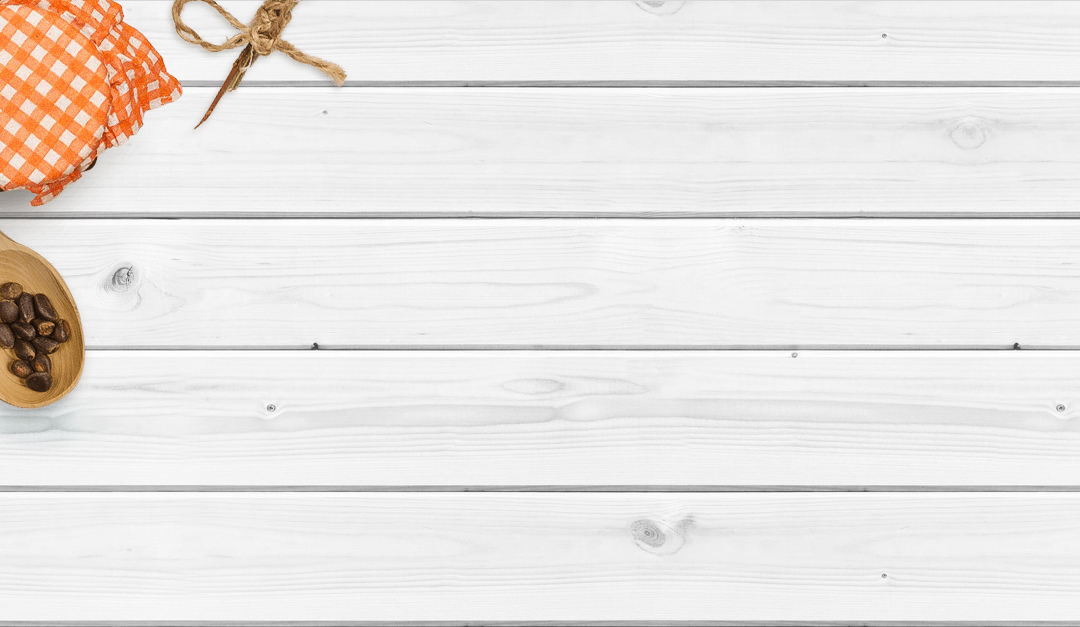
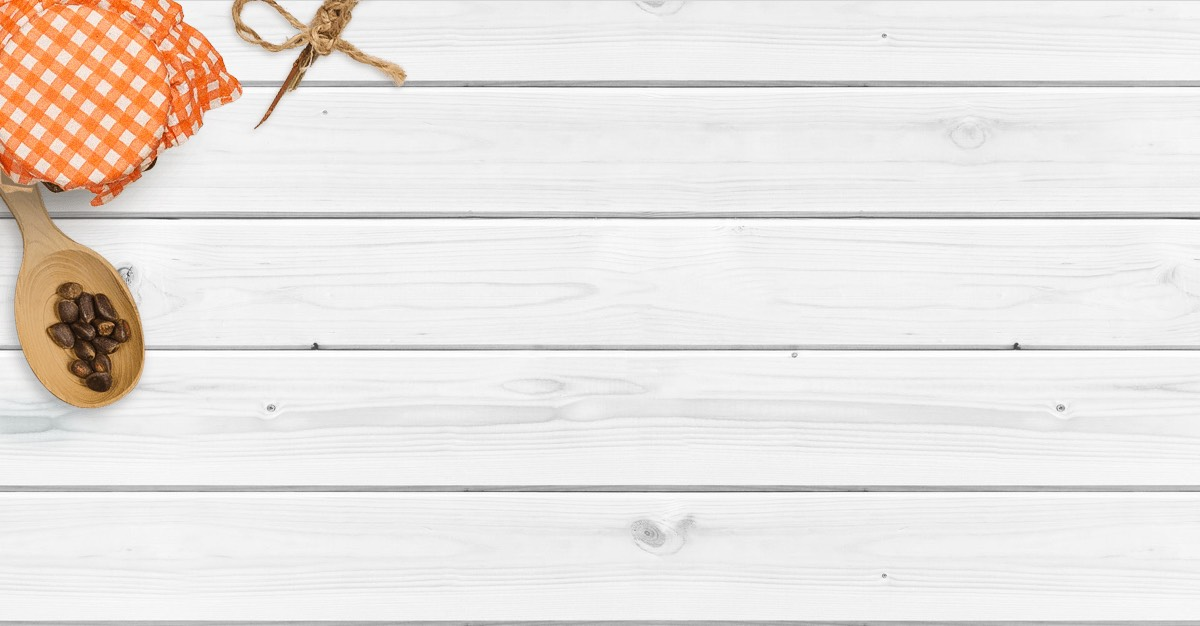
правки, бэк хэдера, контейнер под товары и отступ под ним

diff --git a/index.html b/index.html
@@ -134,70 +134,72 @@
 			<div class="b-block">
 				<div class="b-popular">
 					<h1>Популярное</h1>
-					<div class="b-product-card">
-						<a href="#" class="b-product-url">
-							<div class="b-img" style="background-image: url('./i/card-product-01.jpg')"></div>
-							<h3>Арктавит (напиток чайный из корня лопуха)</h3>
-						</a>
-						<span class="">1 800<span class="icon-rub"></span></span>
-						<a href="#" class="b-btn-green">В корзину</a>
-					</div>
-					<div class="b-product-card">
-						<a href="#" class="b-product-url">
-							<div class="b-img" style="background-image: url('./i/card-product-02.jpg')"></div>
-							<h3>Арктавит (напиток чайный из корня лопуха)</h3>
-						</a>
-						<span class="">1 800<span class="icon-rub"></span></span>
-						<a href="#" class="b-btn-green">В корзину</a>
-					</div>
-					<div class="b-product-card">
-						<a href="#" class="b-product-url">
-							<div class="b-img" style="background-image: url('./i/card-product-03.jpg')"></div>
-							<h3>Арктавит (напиток чайный из корня лопуха)</h3>
-						</a>
-						<span class="">1 800<span class="icon-rub"></span></span>
-						<a href="#" class="b-btn-green">В корзину</a>
-					</div>
-					<div class="b-product-card">
-						<a href="#" class="b-product-url">
-							<div class="b-img" style="background-image: url('./i/card-product-04.jpg')"></div>
-							<h3>Арктавит (напиток чайный из корня лопуха)</h3>
-						</a>
-						<span class="">1 800<span class="icon-rub"></span></span>
-						<a href="#" class="b-btn-green">В корзину</a>
-					</div>
-					<div class="b-product-card">
-						<a href="#" class="b-product-url">
-							<div class="b-img" style="background-image: url('./i/card-product-01.jpg')"></div>
-							<h3>Арктавит (напиток чайный из корня лопуха)</h3>
-						</a>
-						<span class="">1 800<span class="icon-rub"></span></span>
-						<a href="#" class="b-btn-green">В корзину</a>
-					</div>
-					<div class="b-product-card">
-						<a href="#" class="b-product-url">
-							<div class="b-img" style="background-image: url('./i/card-product-02.jpg')"></div>
-							<h3>Арктавит (напиток чайный из корня лопуха)</h3>
-						</a>
-						<span class="">1 800<span class="icon-rub"></span></span>
-						<a href="#" class="b-btn-green">В корзину</a>
-					</div>
-					<div class="b-product-card">
-						<a href="#" class="b-product-url">
-							<div class="b-img" style="background-image: url('./i/card-product-03.jpg')"></div>
-							<h3>Арктавит (напиток чайный из корня лопуха)</h3>
-						</a>
-						<span class="">1 800<span class="icon-rub"></span></span>
-						<a href="#" class="b-btn-green">В корзину</a>
-					</div>
-					<div class="b-product-card">
-						<a href="#" class="b-product-url">
-							<div class="b-img" style="background-image: url('./i/card-product-04.jpg')"></div>
-							<h3>Арктавит (напиток чайный из корня лопуха)</h3>
-						</a>
-						<span class="">1 800<span class="icon-rub"></span></span>
-						<a href="#" class="b-btn-green">В корзину</a>
-					</div>
+					<div class="b-catalog-container">
+						<div class="b-product-card">
+							<a href="#" class="b-product-url">
+								<div class="b-img" style="background-image: url('./i/card-product-01.jpg')"></div>
+								<h3>Арктавит (напиток чайный из корня лопуха)</h3>
+							</a>
+							<span class="">1 800<span class="icon-rub"></span></span>
+							<a href="#" class="b-btn-green">В корзину</a>
+						</div>
+						<div class="b-product-card">
+							<a href="#" class="b-product-url">
+								<div class="b-img" style="background-image: url('./i/card-product-02.jpg')"></div>
+								<h3>Арктавит (напиток чайный из корня лопуха)</h3>
+							</a>
+							<span class="">1 800<span class="icon-rub"></span></span>
+							<a href="#" class="b-btn-green">В корзину</a>
+						</div>
+						<div class="b-product-card">
+							<a href="#" class="b-product-url">
+								<div class="b-img" style="background-image: url('./i/card-product-03.jpg')"></div>
+								<h3>Арктавит (напиток чайный из корня лопуха)</h3>
+							</a>
+							<span class="">1 800<span class="icon-rub"></span></span>
+							<a href="#" class="b-btn-green">В корзину</a>
+						</div>
+						<div class="b-product-card">
+							<a href="#" class="b-product-url">
+								<div class="b-img" style="background-image: url('./i/card-product-04.jpg')"></div>
+								<h3>Арктавит (напиток чайный из корня лопуха)</h3>
+							</a>
+							<span class="">1 800<span class="icon-rub"></span></span>
+							<a href="#" class="b-btn-green">В корзину</a>
+						</div>
+						<div class="b-product-card">
+							<a href="#" class="b-product-url">
+								<div class="b-img" style="background-image: url('./i/card-product-01.jpg')"></div>
+								<h3>Арктавит (напиток чайный из корня лопуха)</h3>
+							</a>
+							<span class="">1 800<span class="icon-rub"></span></span>
+							<a href="#" class="b-btn-green">В корзину</a>
+						</div>
+						<div class="b-product-card">
+							<a href="#" class="b-product-url">
+								<div class="b-img" style="background-image: url('./i/card-product-02.jpg')"></div>
+								<h3>Арктавит (напиток чайный из корня лопуха)</h3>
+							</a>
+							<span class="">1 800<span class="icon-rub"></span></span>
+							<a href="#" class="b-btn-green">В корзину</a>
+						</div>
+						<div class="b-product-card">
+							<a href="#" class="b-product-url">
+								<div class="b-img" style="background-image: url('./i/card-product-03.jpg')"></div>
+								<h3>Арктавит (напиток чайный из корня лопуха)</h3>
+							</a>
+							<span class="">1 800<span class="icon-rub"></span></span>
+							<a href="#" class="b-btn-green">В корзину</a>
+						</div>
+						<div class="b-product-card">
+							<a href="#" class="b-product-url">
+								<div class="b-img" style="background-image: url('./i/card-product-04.jpg')"></div>
+								<h3>Арктавит (напиток чайный из корня лопуха)</h3>
+							</a>
+							<span class="">1 800<span class="icon-rub"></span></span>
+							<a href="#" class="b-btn-green">В корзину</a>
+						</div>
+					</div>	
 				</div>						
 			</div>
 		</div>

diff --git a/css/layout.css b/css/layout.css
@@ -248,8 +248,8 @@ input:-moz-placeholder {
 	.b-header {
 		background-image: url('../i/header.jpg');
 		background-repeat: no-repeat;
-		background-size: cover;
-		background-position: 0 0;
+		background-size: auto 626px;
+		background-position: 50% 0;
 		width: 100%;
 		/* height: 627px; */
 		/* padding-bottom: 48px; */
@@ -312,7 +312,8 @@ input:-moz-placeholder {
 					position: relative;
 				}	
 				.icon-map-marker:hover {
-					border: none; 
+				/* background-color: transparent; */
+				border-color: transparent;
 				}
 				.b-search-field {
 					position: relative;
@@ -438,81 +439,84 @@ input:-moz-placeholder {
 	}
 			.b-content .b-block {
 				padding-top: 40px;
-				padding-bottom: 90px;
+				padding-bottom: 64px;
 			}
 				.b-popular {
 				}
-				.b-product-card {
-					width: calc((100% - 87px)/4);
-					 margin-right: 25px; 
-					border: 2px solid #F2EBDA;
-					border-radius: 15px;
-					box-sizing: border-box;
-					height: 344px;
-					padding: 24px;
-					display: inline-block;
-					margin-bottom: 25px;
+				.b-catalog-container {
+					margin-bottom: -25px;
 				}
-				.b-product-card:nth-child(4n+1) {
-					margin-right: 0px;
-				}
-				.b-product-url {
-					cursor: pointer;
-				}
-					.b-product-card .b-img {
-						background-repeat: no-repeat;
-						background-size: contain;
-						background-position: 50% 0;
-						width: 100%;
-						height: 178px;
-						margin-bottom: 14px;
-					}
-					.b-product-card h3 {
-						font-family: "RobotoSlab-Bold";
-						font-size: 16px;
-						line-height: 20px;
-						color: #4A4A4A;
-						height: 60px;
-						overflow: hidden;
-						margin-bottom: 7px;
-					}
-					.b-product-card h3 {
-						font-family: "RobotoSlab-Bold";
-						font-size: 16px;
-						line-height: 20px;
-						color: #4A4A4A;
-						height: 60px;
-						overflow: hidden;
-						margin-bottom: 7px;
-					}
-						.b-product-card a:hover h3 {
-							text-decoration: underline;
-						}										
-					.b-product-card span {
-						font-family: "Intro";
-						font-size: 20px;
-						line-height: 24px;
-						color: #687734;
+					.b-product-card {
+						width: calc((100% - 87px)/4);
+						 margin-right: 25px; 
+						border: 2px solid #F2EBDA;
+						border-radius: 15px;
+						box-sizing: border-box;
+						height: 344px;
+						padding: 24px;
 						display: inline-block;
-						width: calc(100% - 98px);
-						vertical-align: middle;
+						margin-bottom: 25px;
 					}
-					.b-product-card .icon-rub {
-					width: 12px;
-					height: 14px;
-					padding-left: 2px;
-					padding-top: 0;
+					.b-product-card:nth-child(4n) {
+						margin-right: 0px;
 					}
-						.b-product-card .icon-rub:before {
-							color: #687734;
-							position: absolute;
-							bottom: 0;
+					.b-product-url {
+						cursor: pointer;
+					}
+						.b-product-card .b-img {
+							background-repeat: no-repeat;
+							background-size: contain;
+							background-position: 50% 0;
+							width: 100%;
+							height: 178px;
+							margin-bottom: 14px;
 						}
-					.b-product-card .b-btn-green {
-						display: inline-block;
-						vertical-align: middle;
-						padding: 4px 11px 2px 11px;
-					}
+						.b-product-card h3 {
+							font-family: "RobotoSlab-Bold";
+							font-size: 16px;
+							line-height: 20px;
+							color: #4A4A4A;
+							height: 60px;
+							overflow: hidden;
+							margin-bottom: 7px;
+						}
+						.b-product-card h3 {
+							font-family: "RobotoSlab-Bold";
+							font-size: 16px;
+							line-height: 20px;
+							color: #4A4A4A;
+							height: 60px;
+							overflow: hidden;
+							margin-bottom: 7px;
+						}
+							.b-product-card h3:hover  {
+								text-decoration: underline;
+							}										
+						.b-product-card span {
+							font-family: "Intro";
+							font-size: 20px;
+							line-height: 24px;
+							color: #687734;
+							display: inline-block;
+							width: calc(100% - 98px);
+							vertical-align: middle;
+						}
+						.b-product-card .icon-rub {
+						width: 12px;
+						height: 14px;
+						padding-left: 2px;
+						padding-top: 0;
+						}
+							.b-product-card .icon-rub:before {
+								color: #687734;
+								position: absolute;
+								bottom: 0;
+							}
+						.b-product-card .b-btn-green {
+							display: inline-block;
+							vertical-align: middle;
+							padding: 4px 11px 2px 11px;
+						}
 	.b-footer {
 		background-image: url('../i/footer.jpg');
 		background-repeat: no-repeat;
@@ -803,6 +807,11 @@ input:-moz-placeholder {
 		background-image: url('../i/logo-green@2x.png');	
 	}	
 }	
+@media screen and (min-width: 1400px){
+	.b-header {
+		background-image: url("../i/header-hd.jpg");
+	}
+}
 @media screen and (max-width: 1250px){
 	
 }
